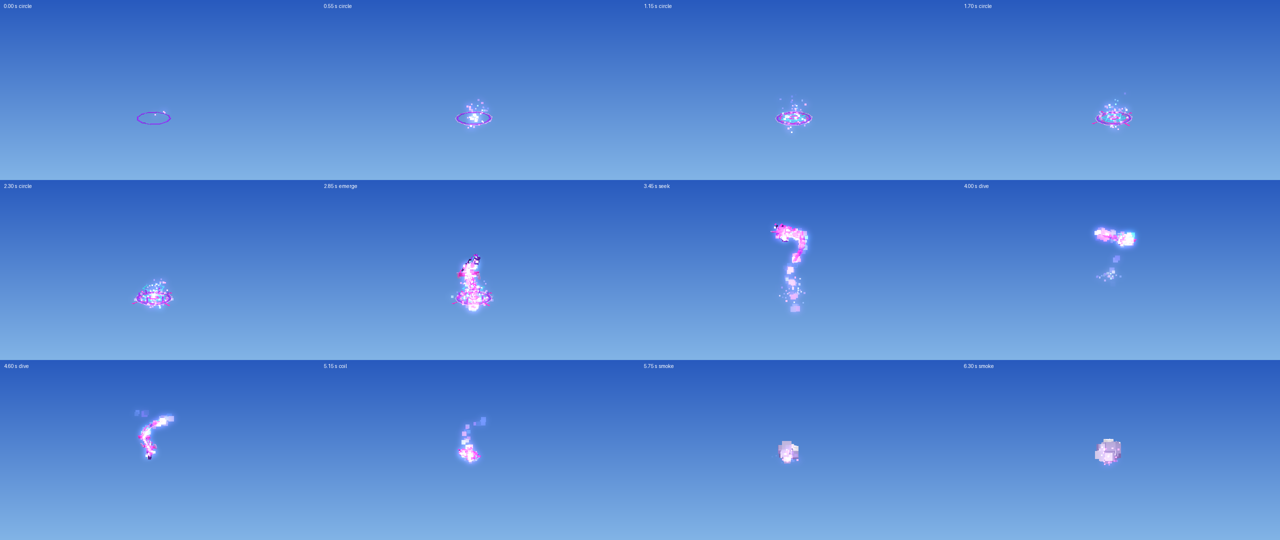
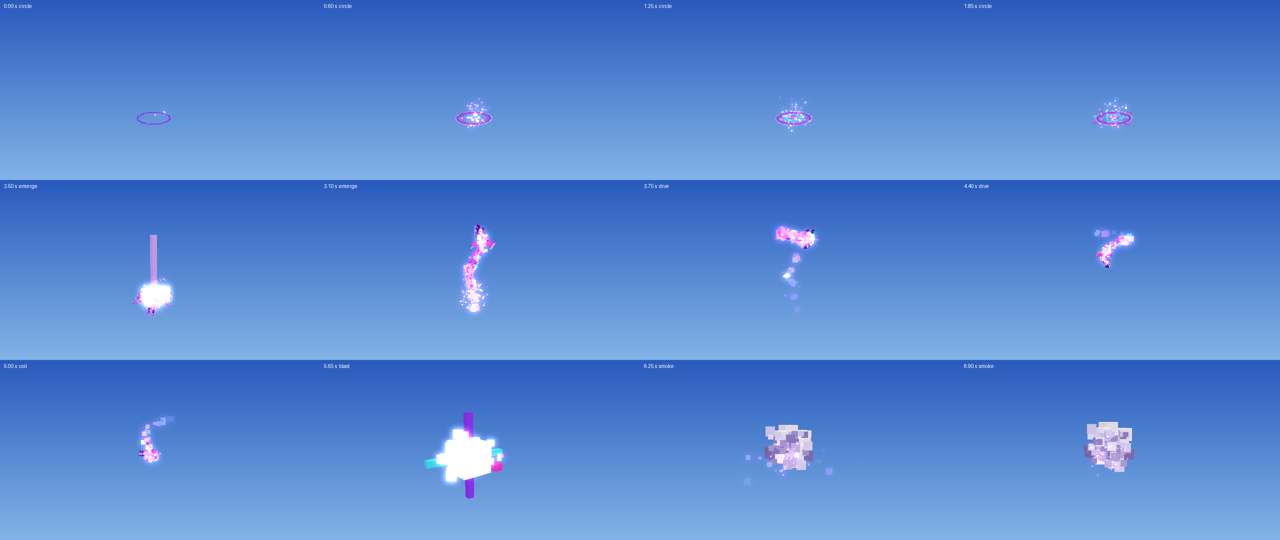
Bigger explosions: the blast grows with rays, larger smoke, larger nuke and cloud; boom setting

diff --git a/dragon_pulse/world_code.js b/dragon_pulse/world_code.js
@@ -8,19 +8,20 @@ var DP_CFG = {
   hitPlayers: true,
   kill: true,
   damage: 40,
-  radius: 6,
-  knockback: 14,
+  boom: 1,
+  radius: 10,
+  knockback: 18,
   hurtCaster: false,
   merge: true,
   mergeDist: 4,
   megaScale: 2.2,
   megaRise: 22,
-  nukeRadius: 22,
+  nukeRadius: 34,
   nukeDamage: 400,
   nukeKnockback: 30,
   rotate: true,
   sounds: true,
-  hideDist: 128,
+  hideDist: 160,
   maxCasts: 4,
   detail: 3,
   maxMeshes: 400,
@@ -170,7 +171,12 @@ var DP_MESH = {
     ["M", 0.42, 0.42, 3.0, "magenta", 0, 0, 0],
   ],
 
-  blast: [["M", 3.4, 3.4, 3.4, "white", 0, 0, 0, "spin"]],
+  blast: [
+    ["M", 3.6, 3.6, 3.6, "white", 0, 0, 0, "spin"],
+    ["M", 10, 0.7, 0.7, "magenta", 0, 0, 0],
+    ["M", 0.7, 10, 0.7, "purple", 0, 0, 0],
+    ["M", 0.7, 0.7, 10, "cyan", 0, 0, 0],
+  ],
 
   smoke: [
     ["M", 2.6, 2.3, 2.6, "smoke", 0.4, -2.6, 1.4, "lit"],
@@ -184,10 +190,10 @@ var DP_MESH = {
   ],
 
   nuke: [
-    ["M", 5, 5, 5, "white", 0, 0, 0, "spin"],
-    ["M", 16, 1.2, 1.2, "magenta", 0, 0, 0],
-    ["M", 1.2, 16, 1.2, "purple", 0, 0, 0],
-    ["M", 1.2, 1.2, 16, "cyan", 0, 0, 0],
+    ["M", 8, 8, 8, "white", 0, 0, 0, "spin"],
+    ["M", 26, 1.8, 1.8, "magenta", 0, 0, 0],
+    ["M", 1.8, 26, 1.8, "purple", 0, 0, 0],
+    ["M", 1.8, 1.8, 26, "cyan", 0, 0, 0],
   ],
 
   stem: [["M", 3.2, 4.4, 3.2, "shade", 0, 0, 0, "lit"]],
@@ -511,25 +517,30 @@ var DP_PHASE = [
 
   function (c) {
     var goal = dpGoal(c)
+    var b = DP_CFG.boom
     if (c.t === 0) {
       dpDrop(c, "")
-      dpGroup(c, "blast", "blast_", "", goal, c.B, 1, true)
-      dpFx("flash", goal, 16, 1.5)
+      dpGroup(c, "blast", "blast_", "", goal, DP_UP, b, true)
+      dpFx("flash", goal, 20, 3 * b)
       dpFx("ring", goal, 24, 0.4)
-      dpFx("impact", goal, 14, 0.8)
+      dpFx("wave", goal, 20, 0.5)
+      dpFx("impact", goal, 18, 2 * b)
       dpSound("blast", goal)
       dpHurt(c, goal, DP_CFG.radius, DP_CFG.damage, DP_CFG.knockback)
     }
-    dpFx("flash", goal, 6, 2)
-    if (c.t >= 3) dpNext(c)
+    if (c.t && c.t % 2 === 0) dpResize(c, "blast", "blast_", "", b * (1 + c.t * 0.3))
+    dpFx("flash", goal, 10, (3 + c.t * 0.6) * b)
+    if (c.t % 3 === 0) dpFx("wave", goal, 12, 0.5)
+    if (c.t >= 8) dpNext(c)
   },
 
   function (c) {
     if (c.t === 0) dpDrop(c, "blast_")
-    dpCloud(c, 1, 14, 18, 23, 0.03)
-    if (c.t < 20 && c.t % 2 === 0) dpFx("smoke", dpAt(c.goal, c.B, 0, 0, 1.5), 5, 2.5)
-    if (c.t % 3 === 0) dpFx("spark", dpAt(c.goal, c.B, 0, 0, 0.5), 5, 2.5)
-    if (c.t >= 27) c.ph = 99
+    var b = 2 * DP_CFG.boom
+    dpCloud(c, b, 14, 24, 30, 0.04)
+    if (c.t < 26 && c.t % 2 === 0) dpFx("smoke", dpAt(c.goal, c.B, 0, 0, 1.5 * b), 7, 2.5 * b)
+    if (c.t % 3 === 0) dpFx("spark", dpAt(c.goal, c.B, 0, 0, 0.5), 7, 2.5 * b)
+    if (c.t >= 35) c.ph = 99
   },
 
   function (c) {
@@ -550,30 +561,30 @@ var DP_PHASE = [
       dpDrop(c, "")
       c.goal = c.at
       c.ground = dpAdd(c.at, [0, -1, 0], dpFree(c.at, [0, -1, 0], 60) - 1)
-      dpGroup(c, "nuke", "nuke_", "", c.goal, DP_UP, 1, true)
+      dpGroup(c, "nuke", "nuke_", "", c.goal, DP_UP, DP_CFG.boom, true)
       dpSound("nuke", c.goal)
       dpHurt(c, c.ground, DP_CFG.nukeRadius, DP_CFG.nukeDamage, DP_CFG.nukeKnockback, true)
     }
-    if (c.t && c.t % 3 === 0) dpResize(c, "nuke", "nuke_", "", 1 + c.t * 0.2)
-    dpFx("flash", c.goal, 14, 3 + c.t * 0.5)
+    if (c.t && c.t % 3 === 0) dpResize(c, "nuke", "nuke_", "", DP_CFG.boom * (1 + c.t * 0.2))
+    dpFx("flash", c.goal, 18, (5 + c.t) * DP_CFG.boom)
     dpFx("wave", c.goal, 16, 0.5)
     dpFx("wave", c.ground, 16, 0.5)
-    dpFx("impact", c.goal, 10, 3)
+    dpFx("impact", c.goal, 14, 6 * DP_CFG.boom)
     if (c.t >= 15) dpNext(c)
   },
 
   function (c) {
     if (c.t === 0) dpDrop(c, "nuke_")
     if (c.t % 8 === 0 && c.t < 33) dpSound("rumble", c.ground, 1 - c.t * 0.01)
-    dpCloud(c, 3, 20, 34, 42, 0.05)
+    dpCloud(c, 5 * DP_CFG.boom, 20, 34, 42, 0.05)
     var out = Math.min(1, (c.t + 1) / 12)
     for (var i = 0; i < 5 && c.t < 36; i++) {
-      dpPut(c, "stem_" + i, DP_MESH.stem[0], "", dpAdd(c.ground, dpSub(c.goal, c.ground), ((i + 0.5) / 5) * out))
+      dpPut(c, "stem_" + i, DP_MESH.stem[0], "", dpAdd(c.ground, dpSub(c.goal, c.ground), ((i + 0.5) / 5) * out), null, 1.6 * DP_CFG.boom)
     }
     if (c.t === 36) dpDrop(c, "stem_")
-    if (c.t < 36 && c.t % 2 === 0) dpFx("smoke", c.goal, 8, 8)
-    if (c.t < 30 && c.t % 2 === 1) dpFx("smoke", c.ground, 8, 6)
-    if (c.t % 2 === 0) dpFx("spark", c.goal, 8, 9)
+    if (c.t < 36 && c.t % 2 === 0) dpFx("smoke", c.goal, 10, 13 * DP_CFG.boom)
+    if (c.t < 30 && c.t % 2 === 1) dpFx("smoke", c.ground, 10, 9 * DP_CFG.boom)
+    if (c.t % 2 === 0) dpFx("spark", c.goal, 10, 14 * DP_CFG.boom)
     if (c.t >= 49) c.ph = 99
   },
 ]

diff --git a/dragon_pulse/tools/render.py b/dragon_pulse/tools/render.py
@@ -127,7 +127,7 @@ strip.resize((W * 2, H * 3 // 2)).save(os.path.join(out, 'timeline.png'))
 # Six moments from close by. The last three are two dragons that met.
 tick_of = lambda frames, ph, i: [f['t'] for f in frames if f['ph'] == ph][i]
 shots = [(one, one_live, 0, -1, 9), (one, one_live, 1, 9, 14), (one, one_live, 3, 6, 20),
-         (two, two_live, 7, -2, 34), (two, two_live, 8, -1, 60), (two, two_live, 9, 16, 60)]
+         (one, one_live, 5, -1, 30), (two, two_live, 8, -1, 110), (two, two_live, 9, 16, 80)]
 sheet = Image.new('RGB', (W * 3, H * 2))
 for i, (frames, live, ph, at, back) in enumerate(shots):
     t = tick_of(frames, ph, at)

diff --git a/README.md b/README.md
@@ -28,7 +28,7 @@ there while it finds a target, then dives onto it and kills it. The target is:
 4. with nothing in range, the spot you were looking at.
 
 **Two dragons that touch merge.** One dragon 2.2 times the size is left. It climbs
-22 blocks and explodes into a nuke that kills every mob and player within 22
+22 blocks and explodes into a nuke that kills every mob and player within 34
 blocks, except the players who cast the two dragons. Dragons touch when their
 paths cross, for example when two players cast at each other at about the same
 time, or one player casts twice in a row. `merge: false` turns this off.
@@ -133,9 +133,9 @@ The meshes sit over your own skin; they do not hide it.
 
 | File | Goes into | Characters | Limit |
 |---|---|---|---|
-| `world_code.js` | World Code | 26,463 | 512,000 |
-| `goodra.js` | World Code, below `world_code.js` | 10,215 | 512,000 together: 36,679 |
-| `skin.js` | World Code | 6,032 | 512,000, all three together: 42,712 |
+| `world_code.js` | World Code | 27,011 | 512,000 |
+| `goodra.js` | World Code, below `world_code.js` | 10,215 | 512,000 together: 37,226 |
+| `skin.js` | World Code | 6,032 | 512,000, all three together: 43,258 |
 | `code_block.js` | Code Block | 18 | 32,000 |
 | `studio/particles_only.code_block.js` | Code Block | 13,414 | 32,000 |
 
@@ -151,16 +151,16 @@ the table columns mean is written on this page instead.
 | seek | It circles at the top, then picks its target; a ring flashes on the target | the same dragon | 3.15–3.75 |
 | dive | It weaves down onto the target | the same dragon, shimmer particles | 3.75–4.7 |
 | coil | It wraps round the target; two stars flash | two 4-part star meshes, sparks | 4.7–5.3 |
-| blast | White explosion. The target is killed, others within 6 blocks are hurt and pushed | core mesh, flash, shock ring | 5.3–5.5 |
-| smoke | Smoke rolls out and shrinks | 8 smoke meshes, smoke and sparks | 5.5–6.9 |
+| blast | A white fireball with three rays grows to 12 blocks across, the rays to 34. The target is killed, others within 10 blocks are hurt and pushed | 4 meshes that grow, flashes, shock waves | 5.3–5.8 |
+| smoke | Smoke rolls out twice as far as before and shrinks | 8 smoke meshes, smoke and sparks | 5.8–7.6 |
 
 After two dragons touch, the one that is left runs these steps instead:
 
 | Step | What happens | Built from | Lasts |
 |---|---|---|---|
 | mega | The merged dragon, 2.2 times the size, spirals 22 blocks up | the same 113 meshes, bigger | 1.2 s |
-| nuke | A fireball with three rays grows until it reaches the ground; shock waves in the sky and on the ground. Everything within 22 blocks dies | 4 meshes that grow, flashes and waves | 0.8 s |
-| cloud | A mushroom cloud: a cap three times the size of the normal smoke on a stem down to the ground | 8 cap meshes, 5 stem meshes, smoke | 2.5 s |
+| nuke | A fireball with three rays grows until it reaches the ground; shock waves in the sky and on the ground. The fireball grows to 32 blocks across, its rays to 104. Everything within 34 blocks dies | 4 meshes that grow, flashes and waves | 0.8 s |
+| cloud | A mushroom cloud: a cap two and a half times the size of the normal smoke on a stem down to the ground | 8 cap meshes, 5 stem meshes, smoke | 2.5 s |
 
 How long the dive takes depends on how far the target is. The clip in
 `beam_blast_frames/` started this move (orbs, beams, a white dragon); the circle,
@@ -180,7 +180,7 @@ Every mesh is one row in `DP_MESH` in `world_code.js`:
 | `head` | 55 | Purple skull and a snout that narrows to the tip; open lower jaw with its own tip and hinges; dark horns in three pieces with magenta tips; a three-step crest; cyan eyes in dark sockets with slit pupils under heavy brows; a nose horn, snout ridge and forehead gem; big and small fangs, teeth, tongue and a glowing throat; whiskers, nostrils, mane, cheek fins with frill spikes, chin spikes, beard |
 | `body` | 58 | 12 segments from thick neck to thin tail, purple and dark purple in turn; a tall magenta spine on each, lilac belly plates, cyan stripes on both sides, a pair of wings with lilac tips, a pair of fins, tail fins |
 | `flare` | 4 | The star: a core and three rays |
-| `blast` | 1 | The white core of the explosion |
+| `blast` | 4 | The fireball of the explosion and its three rays |
 | `smoke` | 8 | White and violet-grey puffs; also the cap of the mushroom cloud |
 | `nuke` | 4 | The fireball and its three rays |
 | `stem` | 1 | One piece of the mushroom cloud's stem, used 5 times |
@@ -190,6 +190,7 @@ To change a part, change its row. To add one, add a row: the engine picks it up.
 Every row in `DP_MESH` is named `M`. What each row is, in order:
 
 - `flare`: core, then the three rays.
+- `blast`: fireball, then the three rays.
 - `smoke`: puffs 1 to 8.
 - `nuke`: fireball, then the three rays.
 - `body`: for each of the 12 segments from neck to tail tip, the segment itself,
@@ -274,6 +275,7 @@ list.
 | `hitPlayers` | `false`: the dragon only goes for mobs |
 | `kill` | `true`: the target dies, and so does everything the nuke reaches. `false`: they take `damage` or `nukeDamage` |
 | `damage` | Health taken at the centre of the blast from everyone but the target |
+| `boom` | Size of every explosion and its smoke. 1 is as drawn here, 2 is twice as big. It does not change who is hit |
 | `radius` | Blast radius in blocks |
 | `knockback` | Push away from the blast |
 | `hurtCaster` | `true`: blast and nuke also hit whoever cast the dragons |
